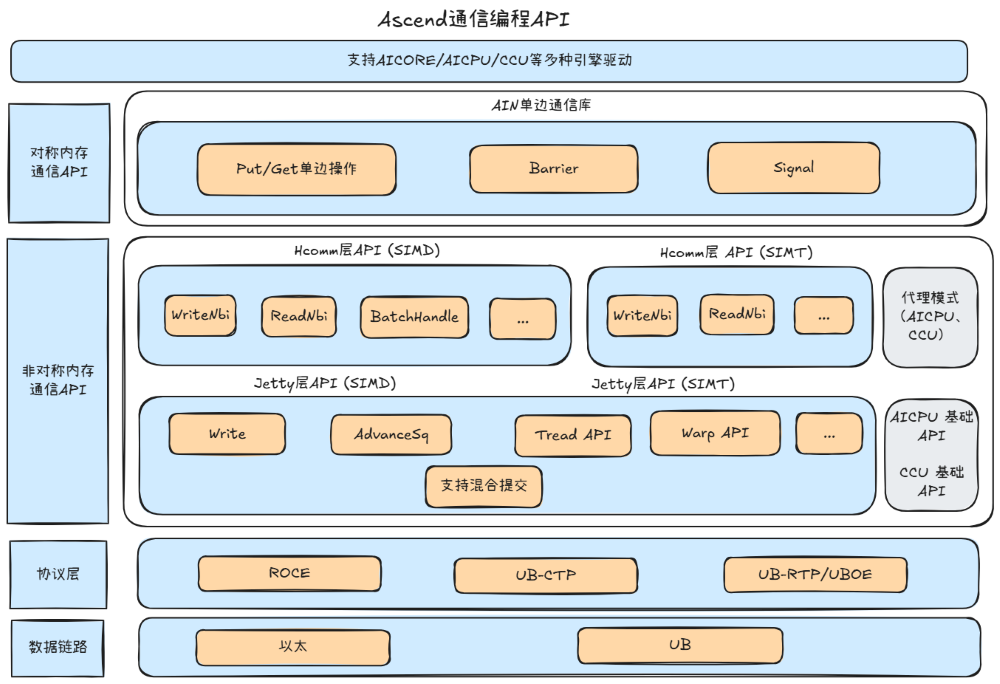
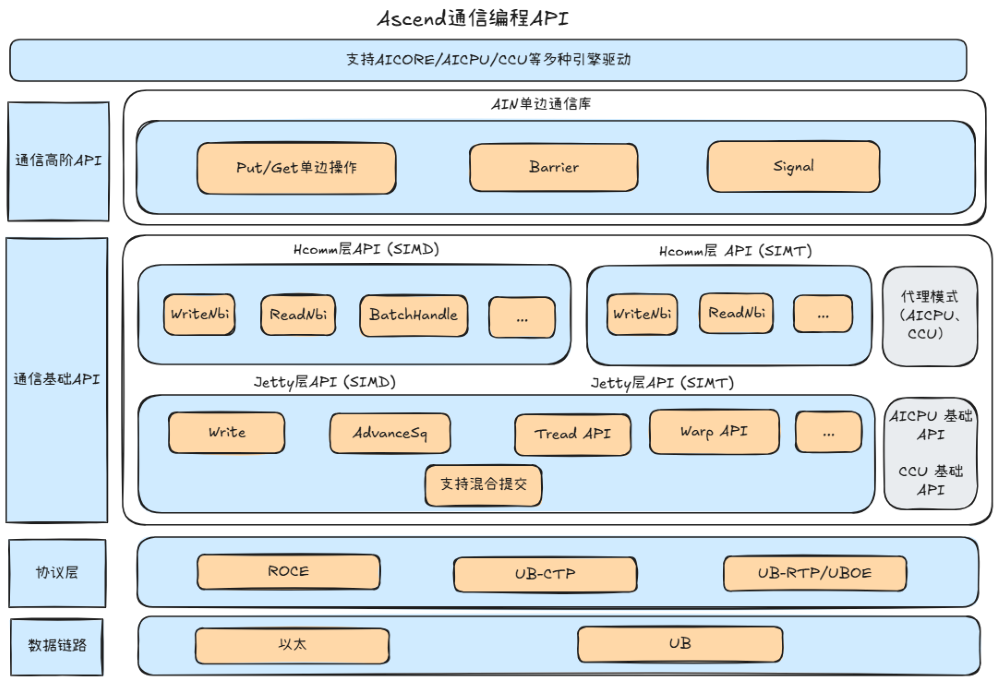
[docs] 修改Asc-comm技术报告用语
# message auto-generated for no-merge-commit merge:
!1052 merge deepseek-v4.1_asc_comm_tech_report into master

[docs] 修改Asc-comm技术报告用语

Created-by: liragnarosf
Commit-by: liragnarosf
Merged-by: cann-robot
Description: 修正Asc-comm自定义通信编程API技术报告用语

See merge request: cann/cann-recipes-infer!1052

diff --git a/docs/models/deepseek_v4_1/deepseek_v4.1_asc_comm_tech_report.md b/docs/models/deepseek_v4_1/deepseek_v4.1_asc_comm_tech_report.md
@@ -43,20 +43,20 @@ ASC-COMM通过提供极简API，屏蔽昇腾芯片代际差异，支持多种网
 ## 通信编程应用场景分层
 ASC-COMM提供的通信API，可以在对称/非对称内存场景以及SIMD/SIMT场景下自由选择。
 
-| 编程界面 | 内存模型 | 典型用途 |
+| 编程界面 | 编程层级 | 典型用途 |
 | --- | --- | --- |
-| AIN | 对称内存 | 基于对称内存的单边通信库，AIN通过目标成员、窗口和偏移发起Put/Get/Signal等任务，简化集群编程 |
-| Hcomm层API | 非对称内存 | HCOMM控制点对点任务，通过Channel确定通信对端，并由本地地址和远端地址分别指定数据的来源和目标。适合目的地址动态变化、buffer布局不一致及需要精细控制的场景 |
-| Jetty层API | 非对称内存 | Jetty层提供底层URMA通信原语，提供最灵活、高性能的通信编程能力 |
+| AIN | 通信高阶API | 基于对称内存的单边通信库，AIN通过目标成员、窗口和偏移发起Put/Get/Signal等任务，简化集群编程 |
+| Hcomm层API | 通信基础API | HCOMM控制点对点任务，通过Channel确定通信对端，并由本地地址和远端地址分别指定数据的来源和目标。适合目的地址动态变化、buffer布局不一致及需要精细控制的场景 |
+| Jetty层API | 通信基础API | Jetty层提供底层URMA通信原语，提供最灵活、高性能的通信编程能力 |
 
 ### 内存模型
 
 通信内存按用户看到的组织方式分为对称内存和非对称内存。两者都依赖Host侧完成内存注册、Channel建立和访问凭据准备，区别在于Device侧如何表达目标内存。
 
-| 内存组织 | 主要接口 | 地址表达 | 典型场景 |
-| --- | --- | --- | --- |
-| 对称内存 | AIN | 目标成员、窗口和窗口内偏移 | 统一布局的单边访问、Team同步 |
-| 非对称内存 | HCOMM | Channel、本地地址和远端地址 | 独立Buffer、动态目的地址、点对点读写 |
+| 内存组织 | 地址表达 | 典型场景 |
+| --- | --- | --- |
+| 对称内存 | 目标成员、窗口和窗口内偏移 | 统一布局的单边访问、Team同步 |
+| 非对称内存 | Channel、本地地址和远端地址 | 独立Buffer、动态目的地址、点对点读写 |
 
 ### 执行模型
 
